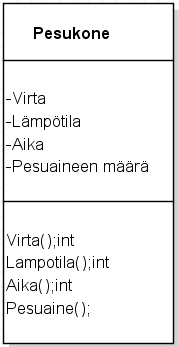
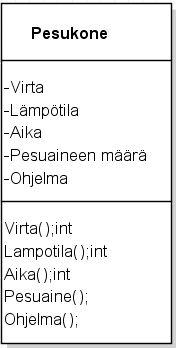
Added kiuas, Pesukone, Tv

Changed region(s): [[0.0, 0.0, 0.9943, 1.0], [0.1705, 0.0576, 0.625, 0.1153]]

diff --git a/Labrat/Lab02.cs b/Labrat/Lab02.cs
@@ -13,43 +13,33 @@ namespace Labrat
             public int Virta { get; set; }
             public int Lampotila { get; set; }
             public int Kosteus { get; set; }
-            public Kiuas(int Lampotila, int Virta, int Kosteus) : base()
+
+            public void virta()
             {
-                this.Virta = Virta;
-                this.Lampotila = Lampotila;
-                this.Kosteus = Kosteus;
-            }
-            public Kiuas()
-            {
-            }
-        }
-        public class KiuasKaytto
-        {
-            public static void TestaaKiuas()
-            {
-                do
+                if (Virta == 1)
                 {
-                Kiuas OssinKiuas = new Kiuas();
-                Console.WriteLine("Pidetäänkö kiukaassa virta vai ei ?? 1 = päälle, Muu = poispäältä");
-                OssinKiuas.Virta = int.Parse(Console.ReadLine());
-                Console.Clear();
-                if (OssinKiuas.Virta == 1)
-                {
-                    Console.WriteLine("Mihin lämpötilaan haluat kiukaan nostaa ? >>");
-                    OssinKiuas.Lampotila = int.Parse(Console.ReadLine());
-                    Console.Clear();
-                    Console.WriteLine("Kiukaan teho on nyt " + OssinKiuas.Lampotila);
-                    Console.WriteLine("Anna kosteus prosentti. (0-100)");
-                    OssinKiuas.Kosteus = int.Parse(Console.ReadLine());
-                    Console.Clear();
-                    Console.WriteLine("Kiukaan kosteus on nyt " + OssinKiuas.Kosteus);
+                    Console.WriteLine("Kiuas on Päällä");
                 }
                 else
                 {
-                    Console.WriteLine("Kiuas on pois päältä");
-                        break;
+                    Console.WriteLine("kiuas ei ole Päällä");
                 }
-                } while (true);
+            }
+            public void lampotila()
+            {
+                Console.WriteLine("Lämpötila on {0} astetta", Lampotila);
+            }
+            public void kosteus()
+            {
+                if (Kosteus > 0)
+                {
+                    Lampotila += 5;
+                    Console.WriteLine("Heitit löylyä lämpötila nousi {0} asteeseen", Lampotila);
+                }
+                else
+                {
+                    Console.WriteLine("Lämpötila laski {0} asteeseen", Lampotila);
+                }
             }
         }
         public class Pesukone
@@ -59,62 +49,50 @@ namespace Labrat
             public int Aika { get; set; }
             public int Pesuaine { get; set; }
             public int Ohjelma { get; set; }
-            public Pesukone(int Virta, int Lampotila, int Aika, int Pesuaine) : base()
+
+            public void virta()
             {
-                this.Virta = 0;
-                this.Lampotila = Lampotila;
-                this.Aika = Aika;
-                this.Pesuaine = Pesuaine;
-                this.Ohjelma = Ohjelma;
-            }
-            public Pesukone()
-            {
-            }
-        }
-        public class PesukoneKaytto
-        {
-            public static void TestaaPesukone()
-            {
-                do
+                if (Virta == 1)
                 {
-                    Pesukone OssinPesukone = new Pesukone();
-                    Console.WriteLine("Pestäänko pyykkia ?? 1 = Pestään, 0 = ei pestä");
-                    OssinPesukone.Virta = int.Parse(Console.ReadLine());
+                    Console.WriteLine("Pesukone on Päällä");
+                }
+                else
+                {
+                    Console.WriteLine("Pesukone ei ole Päällä");
+                }
+            }
+            public void lampotila()
+            {
+                Console.WriteLine("Lämpötila on {0} astetta", Lampotila);
+            }
+            public void aika()
+            {
+                if (Aika > 0)
+                {
+                    int tunnit = Aika / 60;
+                    int minuutit = Aika % 60;
+                    Console.WriteLine("Ohjelman kesto on {0} tuntia ja {1} minuuttia ", tunnit, minuutit);
+                }
+                else
+                {
+                    Console.WriteLine("Aikaa ei asetettu ohjelma sammuu");
                     Console.Clear();
-                    if (OssinPesukone.Virta == 1)
-                    {
-                        Console.WriteLine("Syötä lämpötila >>");
-                        OssinPesukone.Lampotila = int.Parse(Console.ReadLine());
-                        Console.Clear();
-                        Console.WriteLine("Pesukoneen lämpötila on asetettu " + OssinPesukone.Lampotila + " asteeseen");
-                        Console.WriteLine("Syötä pesuohjelman kesto >>");
-                        OssinPesukone.Aika = int.Parse(Console.ReadLine());
-                        int Tunnit = OssinPesukone.Aika / 60;
-                        int Minuutit = OssinPesukone.Aika % 60;
-                        Console.WriteLine("Syötä pesuaineen määrä (ml) >>");
-                        OssinPesukone.Pesuaine = int.Parse(Console.ReadLine());
-                        Console.Clear();
-                        Console.WriteLine("Pesukoneen lämpötila on asetettu " + OssinPesukone.Lampotila + " asteeseen");
-                        Console.WriteLine("Pesuohjelman Kesto on " + Tunnit + " tuntia ja " + Minuutit + " minuuttia ");
-                        Console.WriteLine("Pesuainetta syötetty " + OssinPesukone.Pesuaine + " ml");
-                        Console.WriteLine("Käynnistetäänkö pesuohjelma?(1/0) >> ");
-                        OssinPesukone.Ohjelma = int.Parse(Console.ReadLine());
-                        if (OssinPesukone.Ohjelma == 1)
-                        {
-                            Console.WriteLine("Pyykki pesty");
-                            break;
-                        }
-                        else
-                        {
-                            Console.WriteLine("Pesuohjelma sammutettiin");
-                        }
-                    }
-                    else
-                    {
-                        Console.WriteLine("Pesukone pois päältä");
-                        break;
-                    }
-                } while (true);
+                }
+            }
+            public void pesuaine()
+            {
+                Console.WriteLine("Annoit pesuainetta {0} millilitraa",Pesuaine);
+            }
+            public void ohjelma()
+            {
+                if (Ohjelma == 1)
+                {
+                    Console.WriteLine("Pesuohjelma käynnistetty.");
+                }
+                else
+                {
+                    Console.WriteLine("Pesuohjelma Pysähtyi.");
+                }
             }
         }
         public class TV
@@ -122,19 +100,43 @@ namespace Labrat
             public int Virta { get; set; }
             public int Kanava { get; set; }
             public int Aanenvoimakkuus { get; set; }
-            public TV(int virta, int kanava, int aanenvoimakkuus) : base()
+
+            public void virta()
             {
-                this.Virta = virta;
-                this.Kanava = kanava;
-                this.Aanenvoimakkuus = aanenvoimakkuus;
+                if (Virta == 1)
+                {
+                    Console.WriteLine("TV on Päällä");
+                }
+                else
+                {
+                    Console.WriteLine("...........Epämääräistä siritystä");
+                }
             }
-            public TV()
+            public void kanava()
             {
+                Console.WriteLine("Kanava vaihtui ohjelmapaikalle {0}", Kanava);
+            }
+            public void aanenvoimakkuus()
+            {
+                if (Aanenvoimakkuus < 0)
+                {
+                    Console.WriteLine("ÄÄnenvoimakkuus pienenee {0} yksikköä", Aanenvoimakkuus);
+                }
+                if (Aanenvoimakkuus > 0)
+                {
+                    Console.WriteLine("ÄÄnenvoimakkuus nousee {0} yksikköä",Aanenvoimakkuus);
+                }
             }
         }
-        public class TVkaytto
+        public class Vehicle
         {
-            
+            public string Name { get; set; }
+            public int Speed { get; set; }
+            public int Tyres { get; set; }
+            public void name()
+            {
+                return Name;
+            }
         }
     }
 }

diff --git a/Labrat/Program.cs b/Labrat/Program.cs
@@ -10,7 +10,48 @@ namespace Labrat
     {
         static void Main(string[] args)
         {
-            Lab02.PesukoneKaytto.TestaaPesukone();
+            /*Lab02.Kiuas uus = new Lab02.Kiuas();
+
+            Console.WriteLine("Onko kiuas päällä (1/0)? >>");
+            uus.Virta = int.Parse(Console.ReadLine());
+            uus.virta();
+            Console.WriteLine("Anna kiukaan lämpötila >>");
+            uus.Lampotila = int.Parse(Console.ReadLine());
+            uus.lampotila();
+            Console.WriteLine("Kuinka monta kertaa kiukaalle heitetään vettä ? >>");
+            uus.Kosteus = int.Parse(Console.ReadLine());
+            uus.kosteus();*/
+
+            /*Lab02.Pesukone uus = new Lab02.Pesukone();
+
+            Console.WriteLine("Onko Pesukone päällä (1/0)? >>");
+            uus.Virta = int.Parse(Console.ReadLine());
+            uus.virta();
+            Console.WriteLine("Anna Pesu lämpötila >>");
+            uus.Lampotila = int.Parse(Console.ReadLine());
+            uus.lampotila();
+            Console.WriteLine("Kuinka Pitkän ohjelman haluat (min) ? >>");
+            uus.Aika = int.Parse(Console.ReadLine());
+            uus.aika();
+            Console.WriteLine("Kuinka paljon laitetaaan pesuainetta (ml) ? >>");
+            uus.Pesuaine = int.Parse(Console.ReadLine());
+            uus.pesuaine();
+            Console.WriteLine("Käynnistetäänkö pesuohjelma (1/0) ? >>");
+            uus.Ohjelma = int.Parse(Console.ReadLine());
+            uus.ohjelma();*/
+
+            Lab02.TV uus = new Lab02.TV();
+
+            Console.WriteLine("Laitetaanko TV päälle (1/0)? >>");
+            uus.Virta = int.Parse(Console.ReadLine());
+            uus.virta();
+            Console.WriteLine("Anna kanava >>");
+            uus.Kanava = int.Parse(Console.ReadLine());
+            uus.kanava();
+            Console.WriteLine("Muutetaanko äänenvoimakkuutta (-1 niin pienenee +1 niin suurenee) ? >>");
+            uus.Aanenvoimakkuus = int.Parse(Console.ReadLine());
+            uus.aanenvoimakkuus();
+
         }
     }
 }
